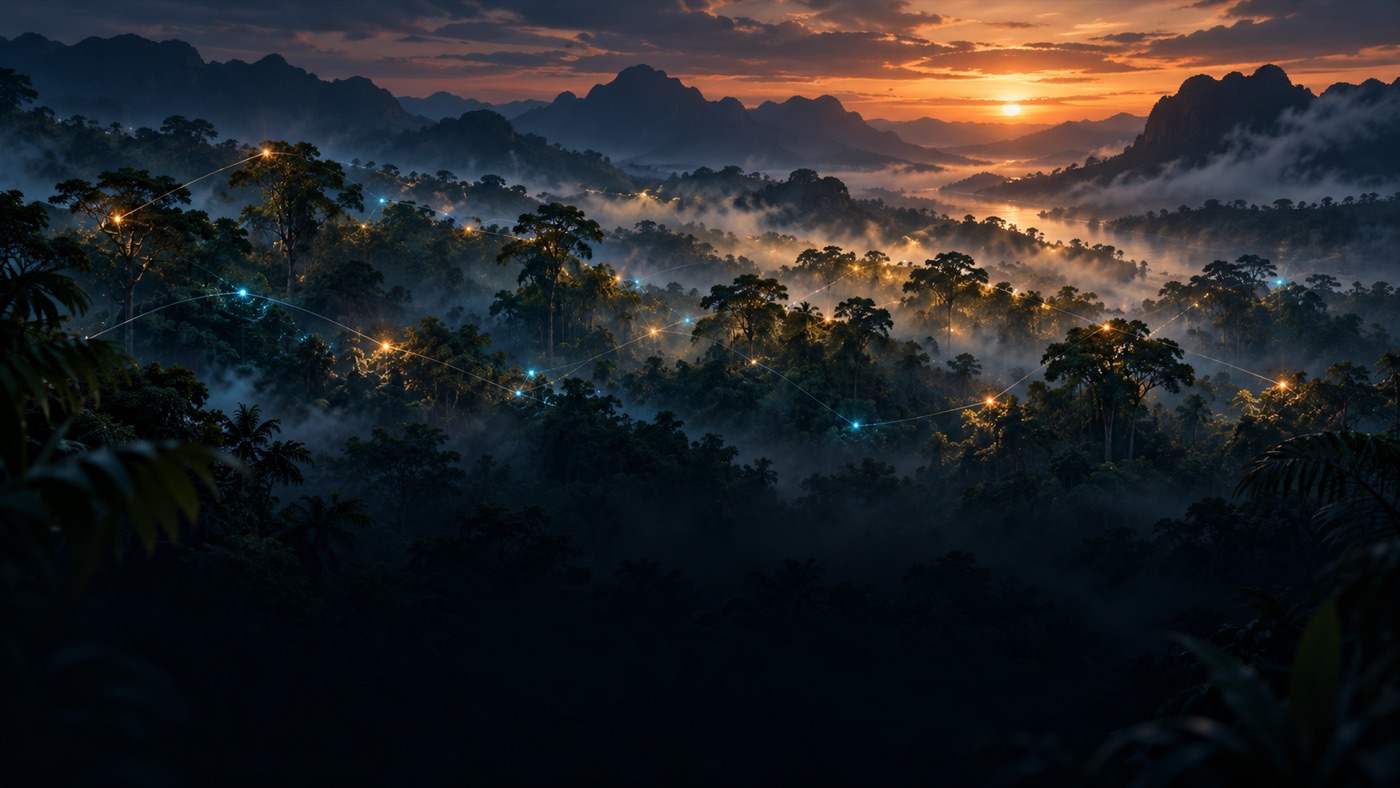
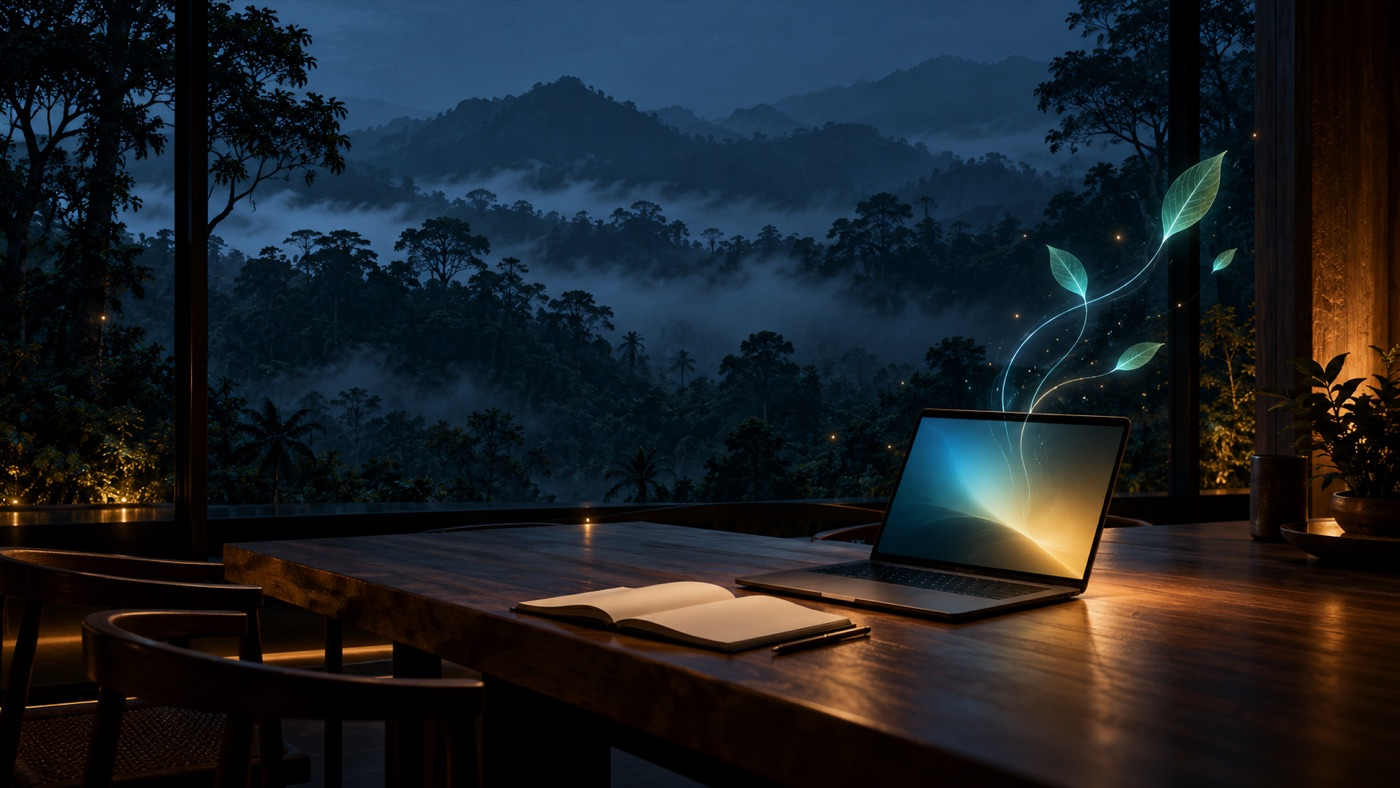
Restore the Labforward tile image, reframe two tile images, and add a new Training cover

diff --git a/portfolio.html b/portfolio.html
@@ -101,7 +101,7 @@
 <section class="ed-page-head" id="top" aria-labelledby="page-title"><h1 id="page-title">Portfolio</h1><p>Career case studies and independent products.</p></section>
 <div class="ed-mosaic ed-mosaic--portfolio" style="--rows:8">
 <button class="ed-tile" type="button" data-action="open-reveal" data-reveal="project-labforward" aria-haspopup="dialog" style="grid-column:1 / span 5;grid-row:1 / span 3">
-  <img src="images/covers/cover-labforward.jpg" alt="" decoding="async"><span class="ed-tile__logo"><span class="ed-mark" style="-webkit-mask-image:url('images/logos/labforward.png');mask-image:url('images/logos/labforward.png');--ratio:1.562;--h:58px"></span></span>
+  <img src="images/mosaic/labforward-workspace.jpg" alt="" decoding="async"><span class="ed-tile__logo"><span class="ed-mark" style="-webkit-mask-image:url('images/logos/labforward.png');mask-image:url('images/logos/labforward.png');--ratio:1.562;--h:58px"></span></span>
   <span class="ed-tile__cap"><b>Helped renew a $500K contract</b><span>Labforward · 2024–2025</span></span><span class="ed-chip" aria-hidden="true">Info</span>
 </button>
 <button class="ed-tile" type="button" data-action="open-reveal" data-reveal="project-labtwin" aria-haspopup="dialog" style="grid-column:8 / span 3;grid-row:1 / span 2">
@@ -125,11 +125,11 @@
   <span class="ed-tile__cap"><b>Wearable data for COVID-19 research</b><span>Thryve · Corona-Datenspende</span></span><span class="ed-chip" aria-hidden="true">Info</span>
 </button>
 <button class="ed-tile" type="button" data-action="open-reveal" data-reveal="project-labforward" aria-haspopup="dialog" style="grid-column:4 / span 2;grid-row:6 / span 2">
-  <img src="images/mosaic/labforward-loop.jpg" alt="" decoding="async"><span class="ed-tile__logo"><span class="ed-mark" style="-webkit-mask-image:url('images/logos/labforward.png');mask-image:url('images/logos/labforward.png');--ratio:1.562;--h:58px"></span></span>
+  <img src="images/mosaic/labforward-loop.jpg" style="height:64%;object-position:30% 75%" alt="" decoding="async"><span class="ed-tile__logo"><span class="ed-mark" style="-webkit-mask-image:url('images/logos/labforward.png');mask-image:url('images/logos/labforward.png');--ratio:1.562;--h:58px"></span></span>
   <span class="ed-tile__cap"><b>Validation: days → hours</b><span>Labforward · Validation loop</span></span><span class="ed-chip" aria-hidden="true">Info</span>
 </button>
 <button class="ed-tile" type="button" data-action="open-reveal" data-reveal="project-labtwin" aria-haspopup="dialog" style="grid-column:11 / span 2;grid-row:6 / span 2">
-  <img src="images/mosaic/labtwin-language.jpg" alt="" decoding="async"><span class="ed-tile__logo"><span class="ed-mark" style="-webkit-mask-image:url('images/logos/labtwin.png');mask-image:url('images/logos/labtwin.png');--ratio:4.161;--h:24px"></span></span>
+  <img src="images/mosaic/labtwin-language.jpg" style="height:64%;object-position:28% 50%" alt="" decoding="async"><span class="ed-tile__logo"><span class="ed-mark" style="-webkit-mask-image:url('images/logos/labtwin.png');mask-image:url('images/logos/labtwin.png');--ratio:4.161;--h:24px"></span></span>
   <span class="ed-tile__cap"><b>GPT-3.5 for lab voice commands</b><span>LabTwin · Natural language</span></span><span class="ed-chip" aria-hidden="true">Info</span>
 </button>
 <button class="ed-tile" type="button" data-action="open-reveal" data-reveal="project-dataverse" aria-haspopup="dialog" style="grid-column:6 / span 5;grid-row:6 / span 2">
@@ -137,7 +137,7 @@
   <span class="ed-tile__cap"><b>AI-assisted work for a 40-person consultancy</b><span>DataVerse Consulting · Vientiane</span></span><span class="ed-chip" aria-hidden="true">Info</span>
 </button>
 <button class="ed-tile" type="button" data-action="open-reveal" data-reveal="project-training" aria-haspopup="dialog" style="grid-column:1 / span 3;grid-row:7 / span 2">
-  <img src="images/covers/cover-training.jpg" alt="" decoding="async">
+  <img src="images/covers/cover-training.jpg" style="height:72%;object-position:72% 60%" alt="" decoding="async">
   <span class="ed-tile__cap"><b>Executive AI training</b><span>Forestry non-profit · Laos · 2026</span></span><span class="ed-chip" aria-hidden="true">Info</span>
 </button>
 </div>
